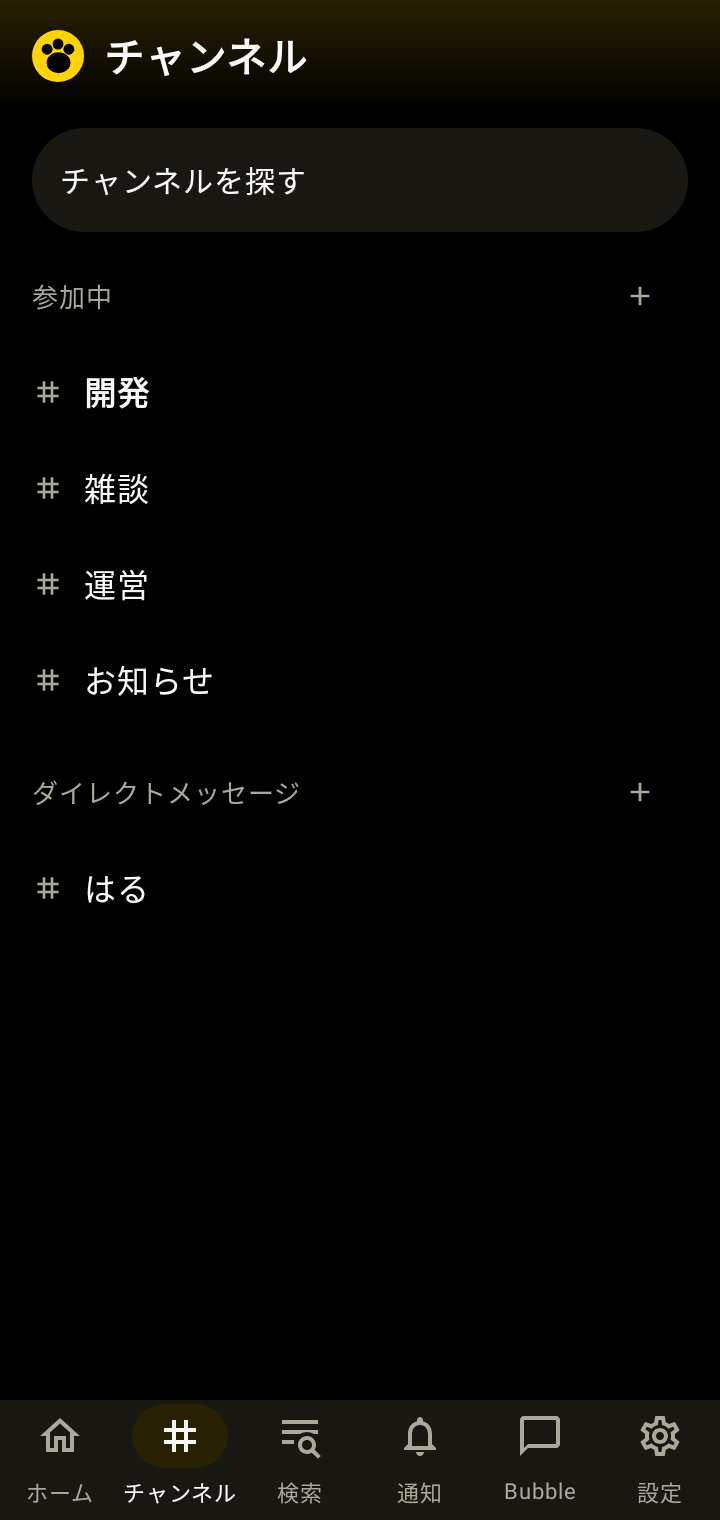
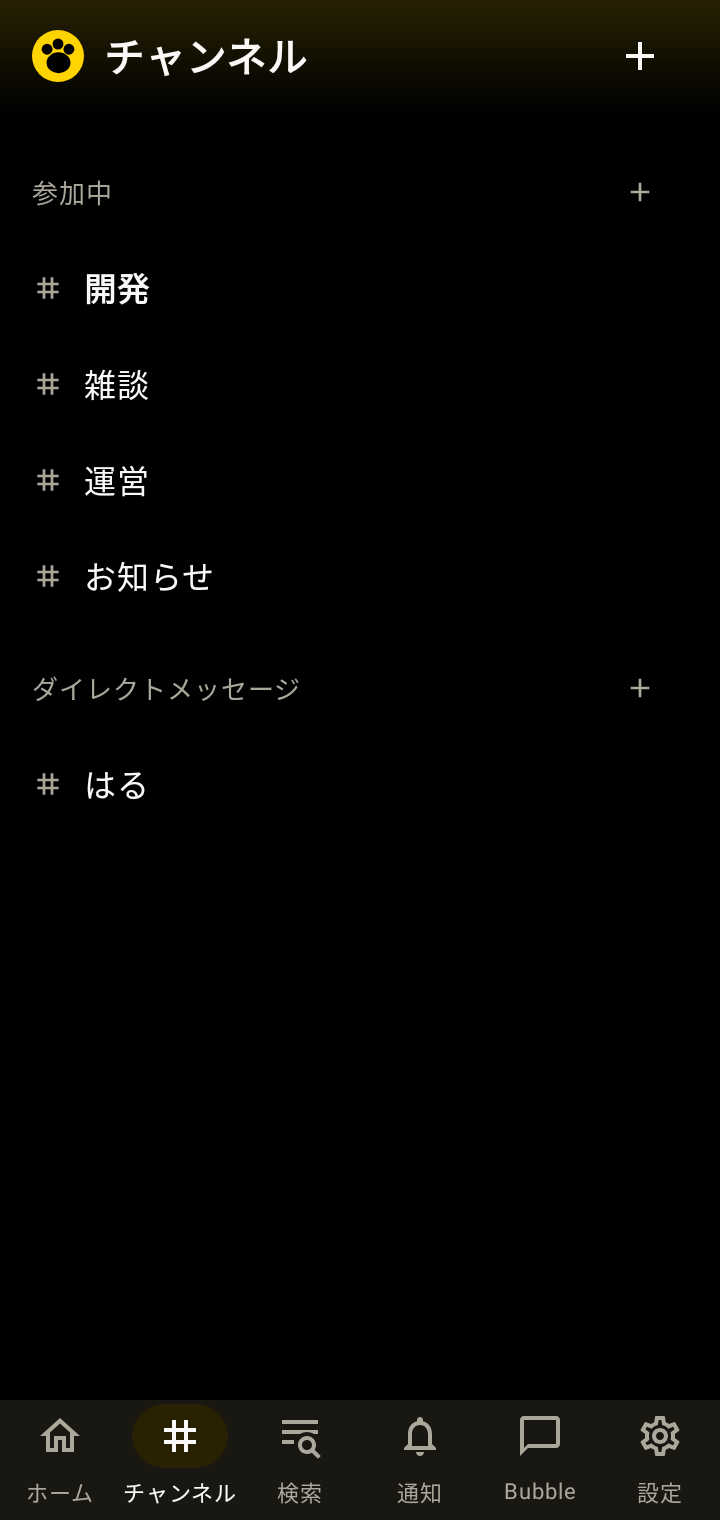
Android のチャンネル一覧: 上の「チャンネルを探す」欄を消し、右上の＋から探す・作成を選ぶ

diff --git a/frontend-compose/androidApp/src/main/kotlin/zoo/android/ui/AndroidScreens.kt b/frontend-compose/androidApp/src/main/kotlin/zoo/android/ui/AndroidScreens.kt
@@ -26,6 +26,8 @@ import androidx.compose.material3.Text
 import androidx.compose.runtime.Composable
 import androidx.compose.runtime.LaunchedEffect
 import androidx.compose.runtime.CompositionLocalProvider
+import androidx.compose.material3.DropdownMenu
+import androidx.compose.material3.DropdownMenuItem
 import androidx.compose.runtime.mutableStateOf
 import androidx.compose.runtime.mutableFloatStateOf
 import androidx.compose.runtime.remember
@@ -387,17 +389,31 @@ private fun HomePage(screen: AndroidScreen.Home, colors: AndroidColors, dispatch
     }
 }
 
+/** The header's ＋: find a channel to join, or create one. */
+@Composable
+private fun ChannelMenuButton(colors: AndroidColors, dispatch: (AndroidUiAction) -> Unit) {
+    var expanded by remember { mutableStateOf(false) }
+    Box {
+        UiIconButton(UiIcon.Add, "チャンネルを探す・作成", colors.foreground, { expanded = true })
+        DropdownMenu(expanded = expanded, onDismissRequest = { expanded = false }, containerColor = colors.background) {
+            listOf(
+                Triple("チャンネルを探す", UiIcon.Search, AndroidUiAction.Browse),
+                Triple("チャンネルを作成", UiIcon.Add, AndroidUiAction.CreateChannel),
+            ).forEach { (label, icon, action) ->
+                DropdownMenuItem(
+                    text = { Text(label, color = colors.foreground) },
+                    leadingIcon = { UiGlyph(icon, colors.secondary, AndroidControlSize.inlineIcon) },
+                    onClick = { expanded = false; dispatch(action) },
+                )
+            }
+        }
+    }
+}
+
 @Composable
 private fun ChannelPage(screen: AndroidScreen.Channels, colors: AndroidColors, dispatch: (AndroidUiAction) -> Unit) {
-    PageHeader(androidLabel("channels.title", "チャンネル"), colors)
+    PageHeader(androidLabel("channels.title", "チャンネル"), colors) { ChannelMenuButton(colors, dispatch) }
     LazyColumn(contentPadding = PaddingValues(horizontal = 16.dp, vertical = 8.dp)) {
-        item {
-            Text("チャンネルを探す",
-                Modifier.fillMaxWidth().background(colors.quietSurface, CircleShape)
-                    .heightIn(min = AndroidControlSize.target)
-                    .clickable(role = Role.Button) { dispatch(AndroidUiAction.Browse) }.padding(14.dp),
-                color = colors.foreground, fontSize = 15.sp)
-        }
         screen.sections.forEach { section ->
             item {
                 Row(Modifier.fillMaxWidth().padding(top = 8.dp), verticalAlignment = Alignment.CenterVertically) {

diff --git a/frontend-compose/ui-preview/src/test/kotlin/zoo/android/ui/AndroidSamplesTest.kt b/frontend-compose/ui-preview/src/test/kotlin/zoo/android/ui/AndroidSamplesTest.kt
@@ -268,7 +268,9 @@ class AndroidSamplesTest {
                     ui.onNodeWithContentDescription(":party:", useUnmergedTree = true).assertIsDisplayed()
                 }
                 if (name == "channels") {
-                    for (label in listOf("チャンネルを作成", "DMを作成")) {
+                    // The list has no search field; finding and creating channels start from the header's ＋.
+                    ui.onNodeWithText("チャンネルを探す").assertDoesNotExist()
+                    for (label in listOf("チャンネルを探す・作成", "チャンネルを作成", "DMを作成")) {
                         ui.onNodeWithContentDescription(label).assertHasClickAction()
                             .assertWidthIsEqualTo(48.dp).assertHeightIsEqualTo(48.dp)
                     }
@@ -452,6 +454,14 @@ class AndroidSamplesTest {
             ))
         }
         ui.runOnIdle { screen = channels }
+        for (item in listOf("チャンネルを探す", "チャンネルを作成")) {
+            ui.onNodeWithContentDescription("チャンネルを探す・作成").performClick()
+            ui.onNodeWithText(item).performClick()
+            ui.onNodeWithText(item).assertDoesNotExist()
+        }
+        ui.runOnIdle {
+            check(actions.takeLast(2) == listOf(AndroidUiAction.Browse, AndroidUiAction.CreateChannel)) { actions.takeLast(2).toString() }
+        }
         ui.onNode(isSelectable() and hasText("検索")).performClick()
         ui.runOnIdle { screen = searchResults }
         ui.onNodeWithTag("global-search-field").performTextReplacement("会議")

diff --git a/docs/android-design.md b/docs/android-design.md
@@ -22,7 +22,7 @@ Androidの見た目を変更するときの基準。数値の定義元は
 | --- | --- |
 | ホーム | タブの下に枠なしのタイムライン。本文サイズを保ち、投稿は余白で分ける。投稿の1行目は表示名・IDを左、日時・公開範囲を右に置く。2行目に #チャンネル名、または端に向かって色が薄れる1行の帯でサーバー名を表示する。連合先がテーマカラーを公開していれば帯に使う。各投稿の下に返信・再投稿・リアクション追加・その他を本文の左右端に合わせて等間隔で並べる。鉛筆アイコンで投稿を開く。投稿作成の上部で公開範囲を選び、ActivityPubロゴで連合配信を切り替える。オンはロゴ本来の色、オフはグレーで表示する。 |
 | ホーム投稿 | 本文と添付のプレビューを同じ下書きに置く。下から最近の写真を出し、OSの写真ピッカーへの入口も提供する。操作バーの四辺に8dpの内側余白を設ける。 |
-| チャンネル一覧 | 上部の検索入口、参加中の一覧、DMの順。チャンネルとDMの作成には＋アイコンを使う。チャンネルとDMは名前を1行で表示する。チャンネル名は未読時に600、個人DMのユーザー名は500で表示する。未読状態は読み上げにも渡す。説明文と行間の区切り線を省き、通常の行高は48dpにそろえる。 |
+| チャンネル一覧 | 参加中の一覧、DMの順。ヘッダー右上の＋から「チャンネルを探す」と「チャンネルを作成」を選ぶメニューを開く（一覧の上に検索欄は置かない）。各見出しの横でもチャンネルとDMの作成に＋アイコンを使う。チャンネルとDMは名前を1行で表示する。チャンネル名は未読時に600、個人DMのユーザー名は500で表示する。未読状態は読み上げにも渡す。説明文と行間の区切り線を省き、通常の行高は48dpにそろえる。 |
 | 検索 | 下のナビゲーションのタブ。検索欄、種類のタブ（すべて・メッセージ・ファイル）、暗号化チャンネルが対象外である旨、結果の順。結果は投稿者・日時・抜粋（検索語を強調）・チャンネルを表示し、押すとそのメッセージへ移動する。結果から戻ると語・種類・一覧の位置を残す。 |
 | 会話・スレッド | 上部のチャンネル名から設定を開く。会話には下部タブを出さず、入力欄を画面端に配置する。スレッドを閉じたときは元の位置へ戻る。 |
 | 通知 | 送信者、通知の種類、会話名を読み順に置く。利用できる返信元や画像を補助情報として出す。未読はドットと読み上げ状態で示す。通知画面に表示した項目を自動で既読にし、既読操作のボタンは置かない。 |

diff --git a/docs/android-design-samples.md b/docs/android-design-samples.md
@@ -11,7 +11,7 @@
 | 画面 | Compose 実キャプチャ | 見る箇所 |
 | --- | --- | --- |
 | ホーム | [タイムライン](images/android-design/home.png) | 枠を減らした投稿、無彩色の本文面、投稿アイコン |
-| チャンネル | [一覧](images/android-design/channels.png) | 検索、参加中、DM。新デザインは名前を1行で表示し、チャンネル名は未読時に600、個人DMのユーザー名は500で表示する。説明文と区切り線は省く。キャプチャは旧版。 |
+| チャンネル | [一覧](images/android-design/channels.png) | 参加中、DM。右上の＋から「チャンネルを探す」「チャンネルを作成」を選ぶ。新デザインは名前を1行で表示し、チャンネル名は未読時に600、個人DMのユーザー名は500で表示する。説明文と区切り線は省く。キャプチャは旧版。 |
 | 通知 | [通知一覧](images/android-design/notifications.png) | 送信者、通知元、抜粋、未読表示 |
 | Bubble・設定 | [Bubble](images/android-design/bubble.png)・[設定トップ](images/android-design/settings.png) | 5タブから直接開けるトップ |
 | 投稿詳細・会話・スレッド | [会話](images/android-design/channel-editor-idle.png)・[スレッド](images/android-design/thread.png) | 子画面ではタブを隠し、入力操作は下に置く |
